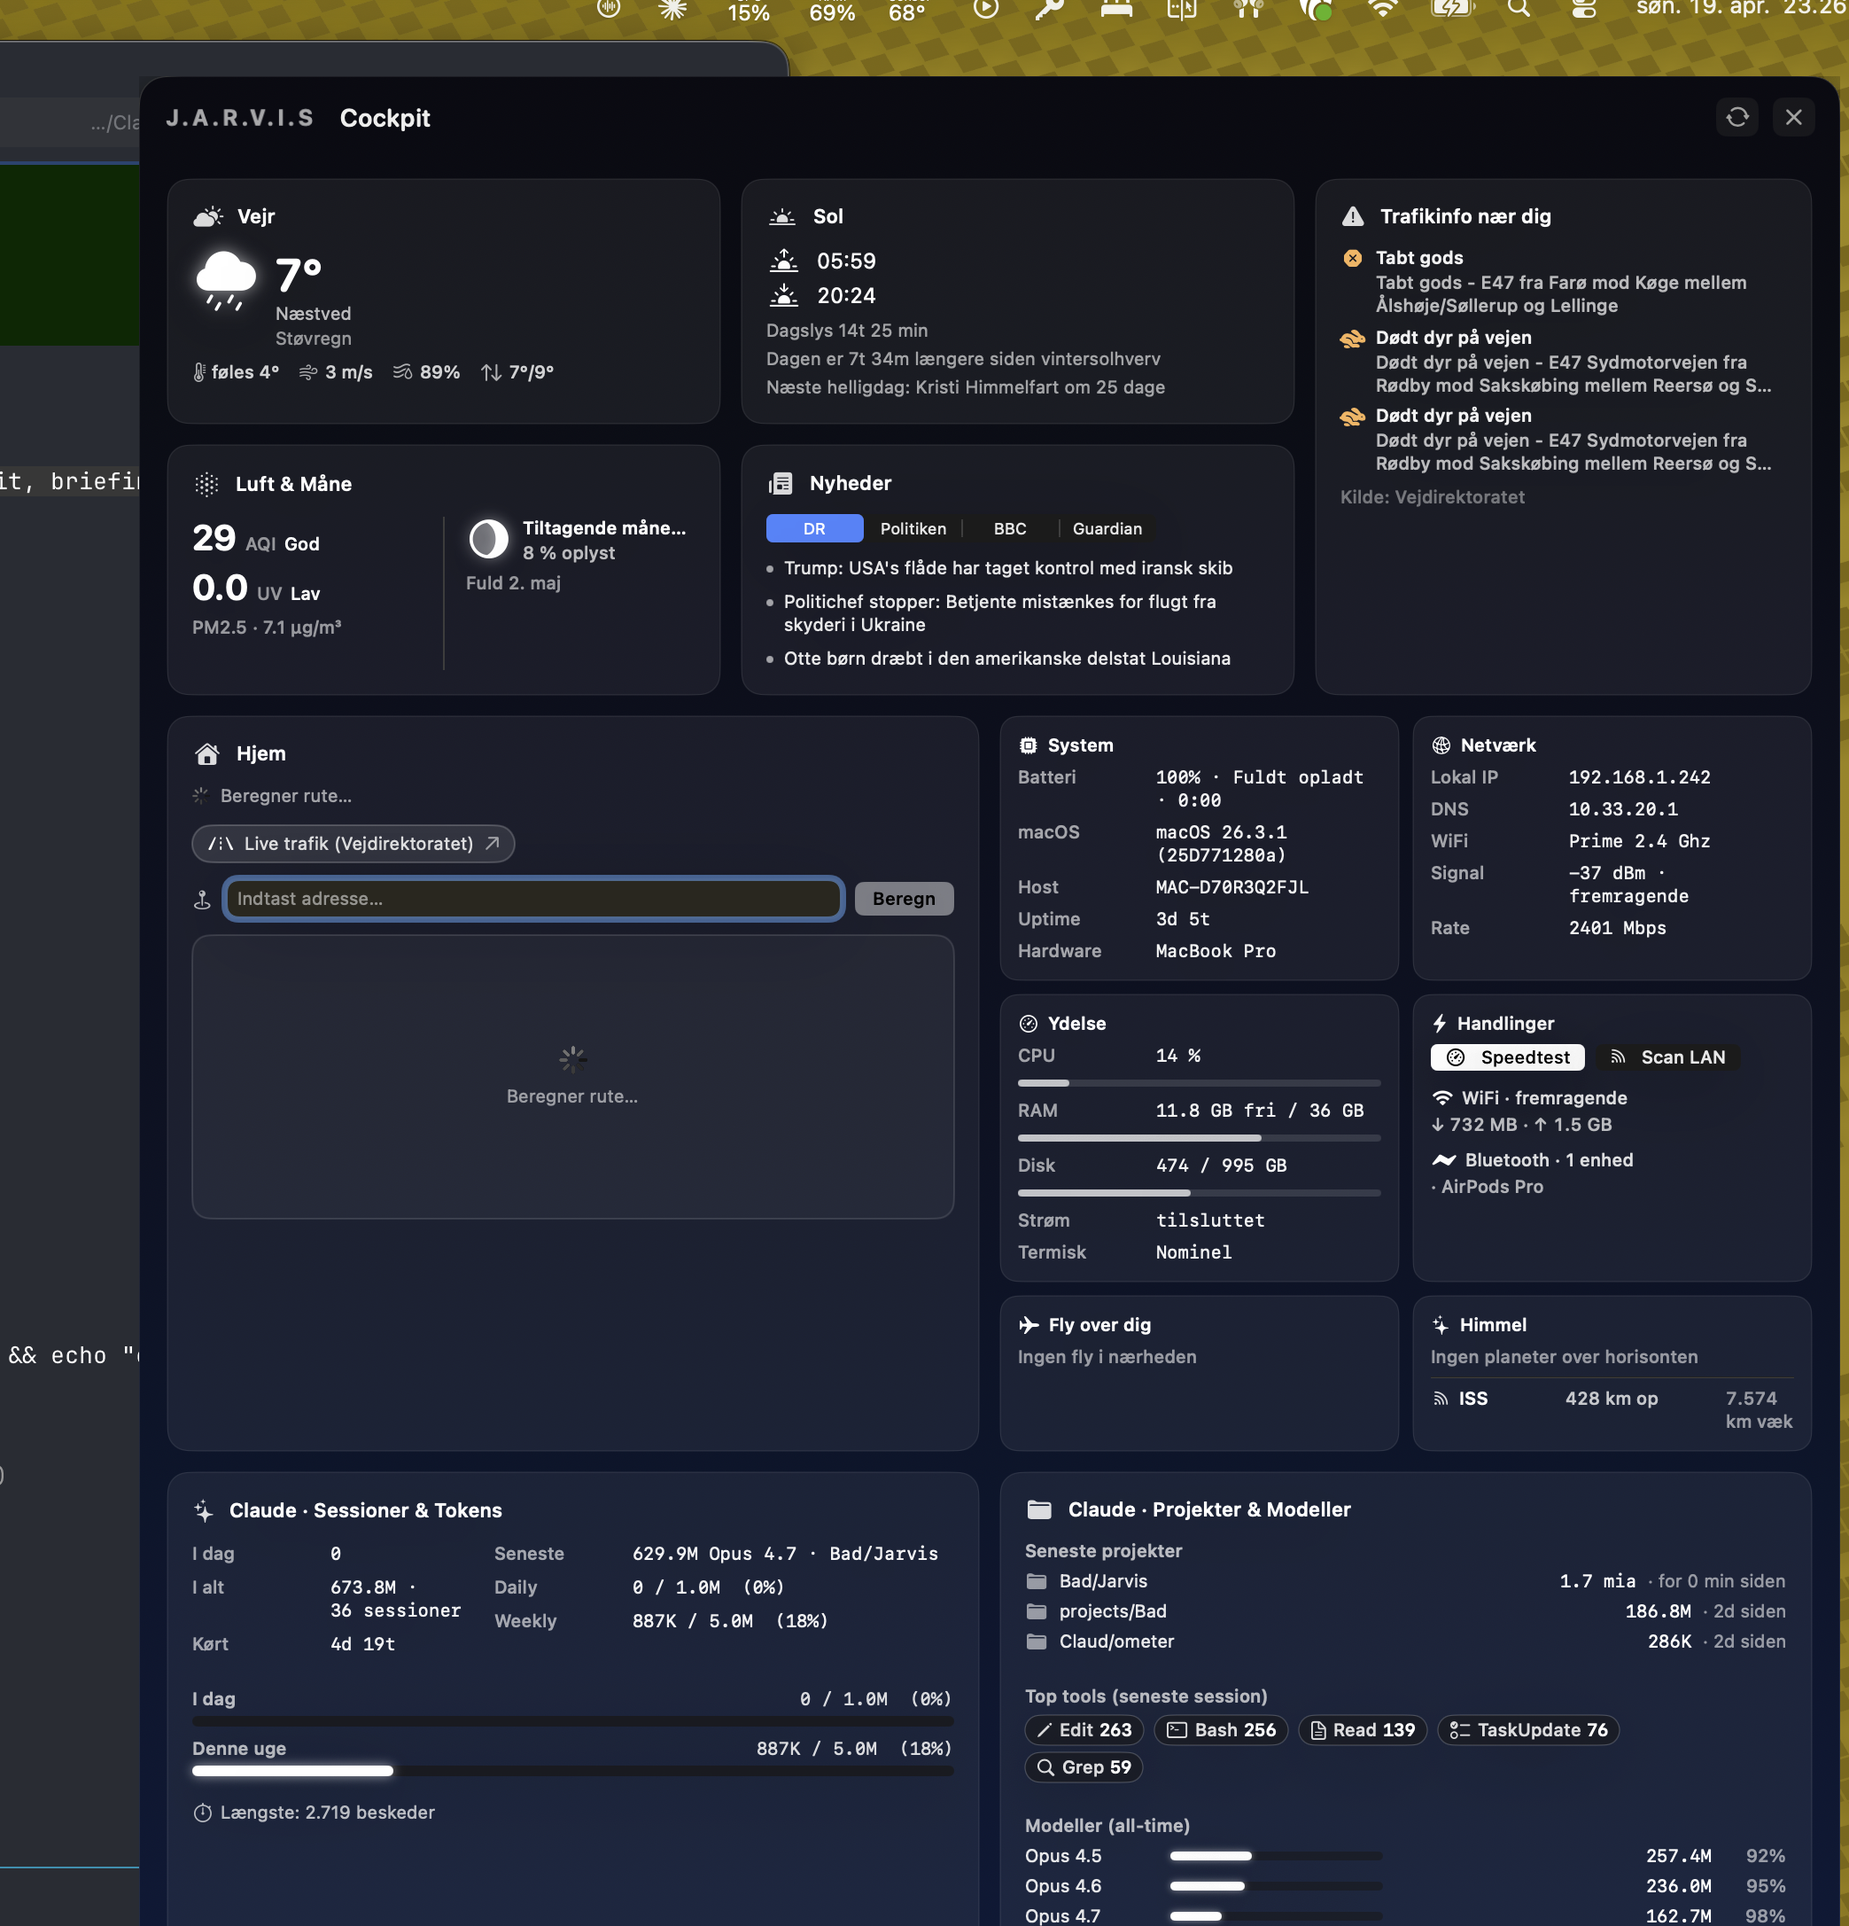
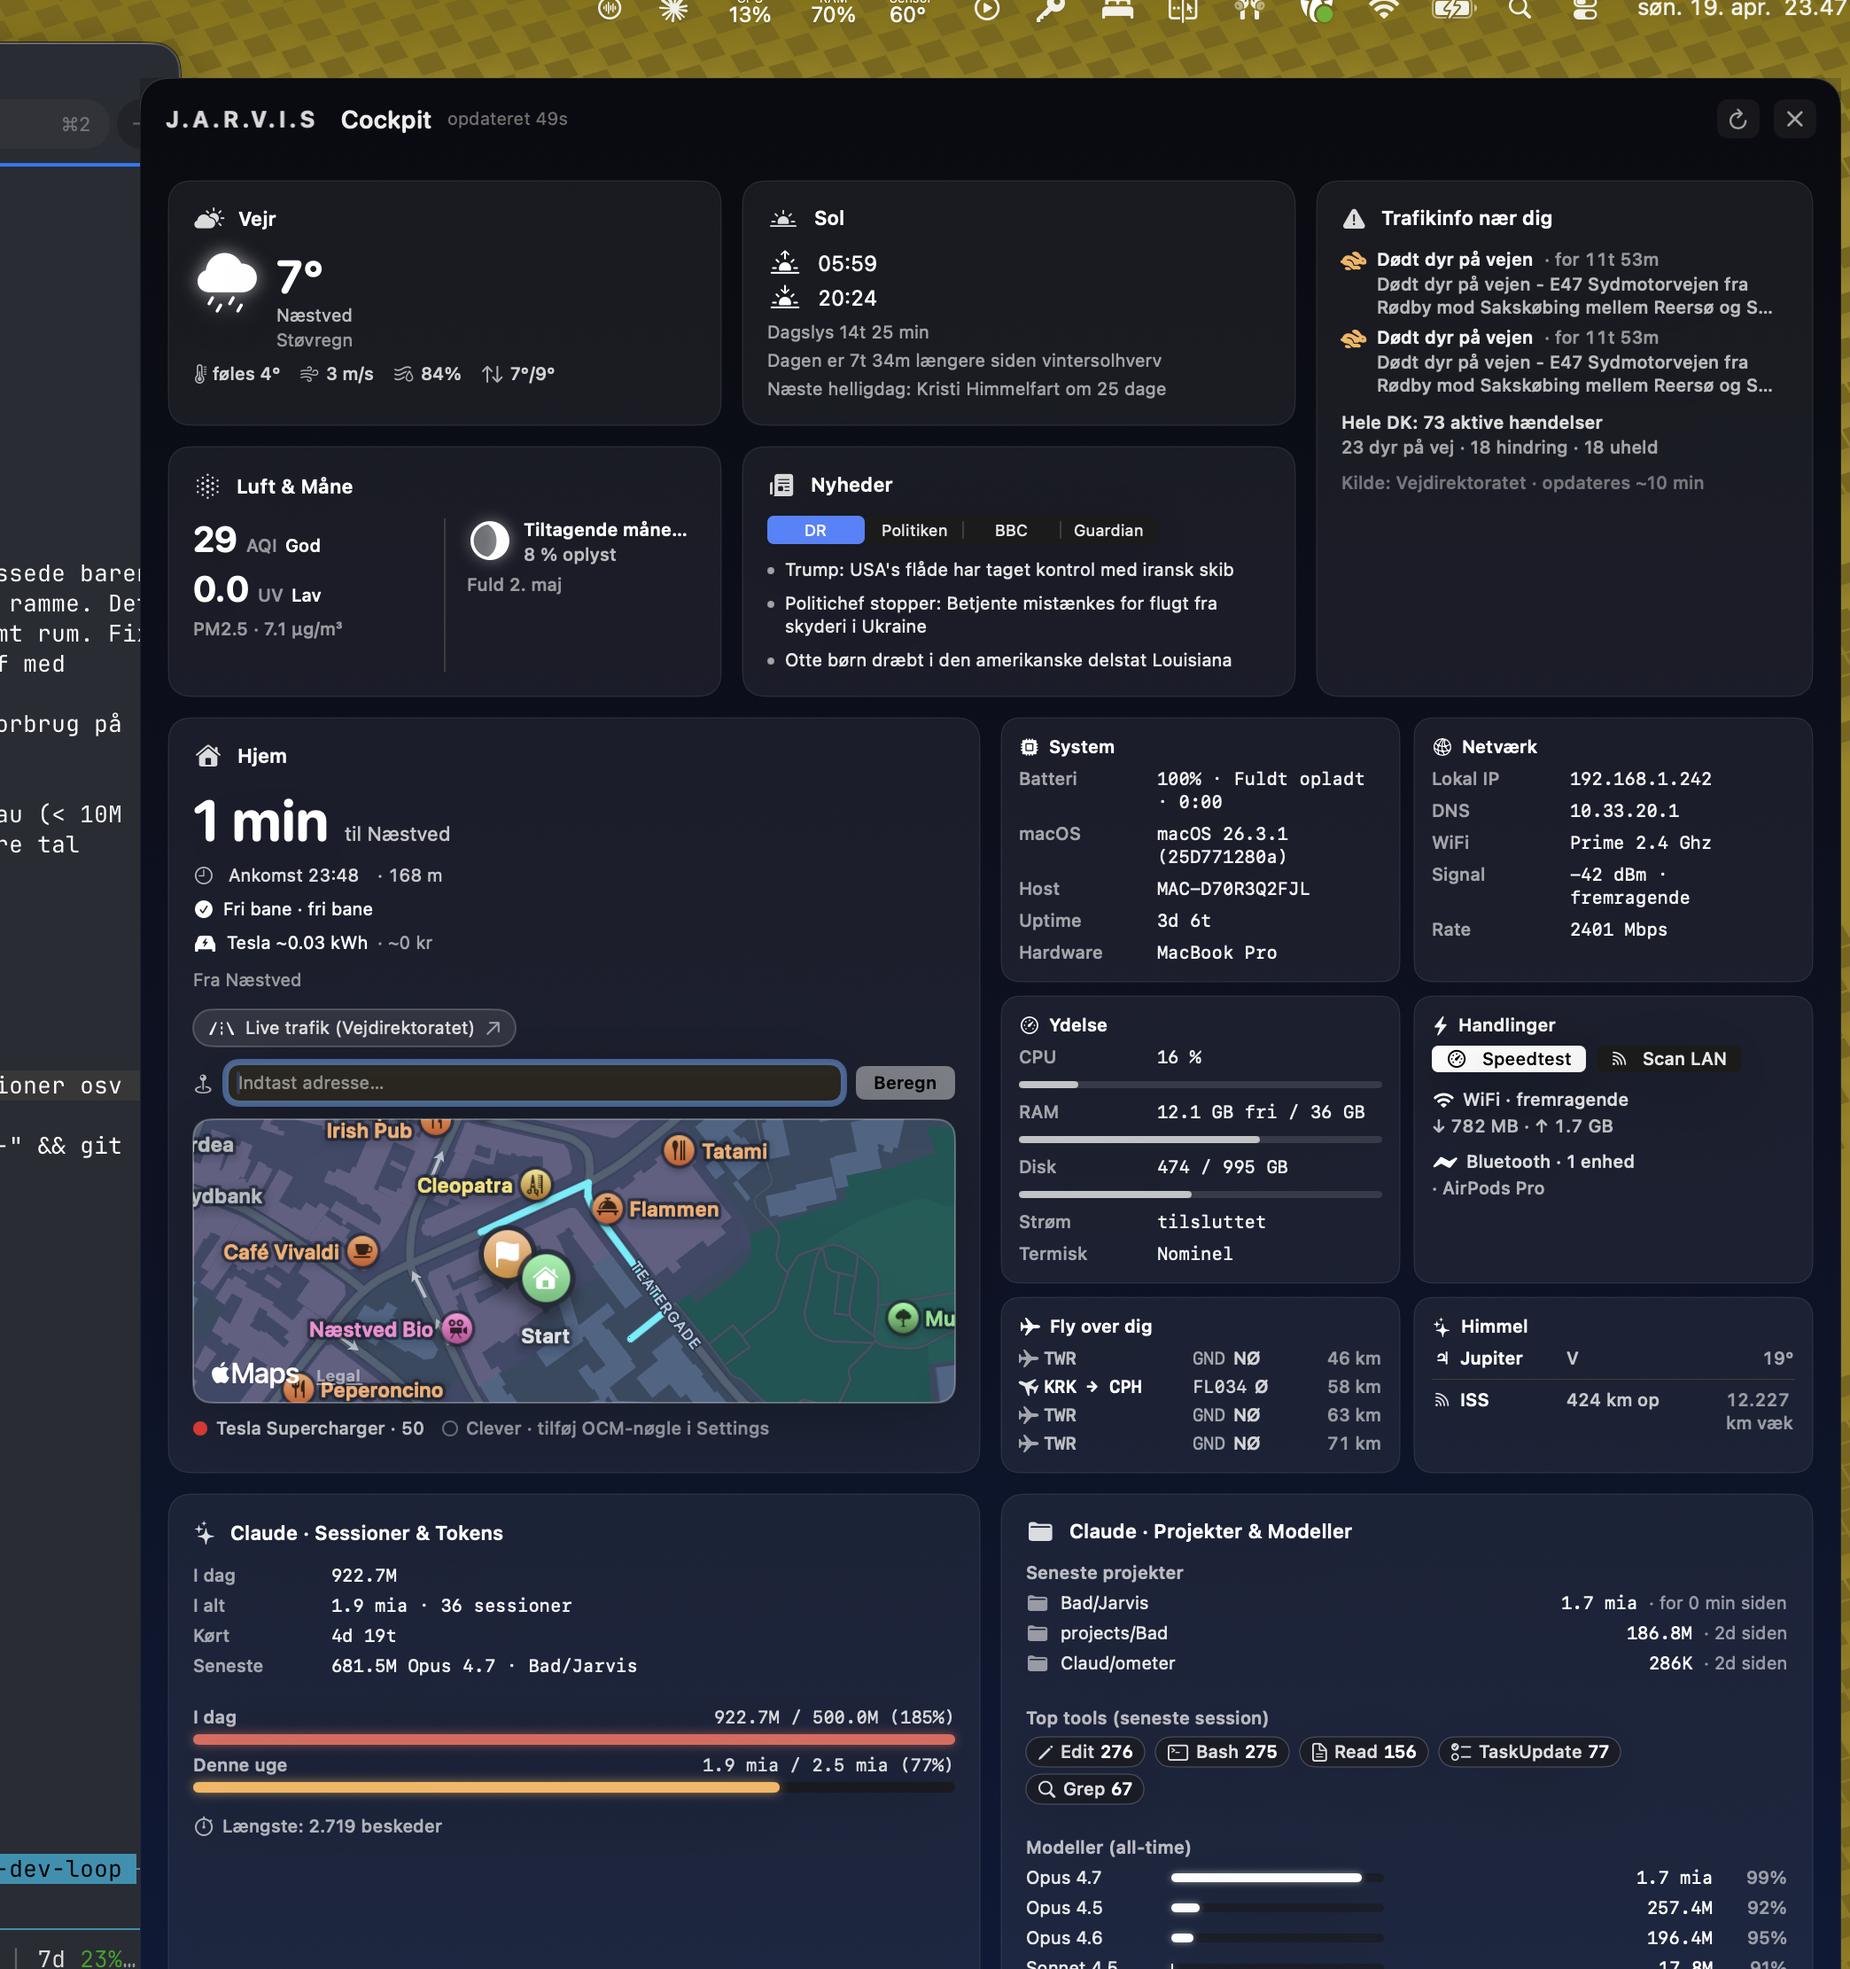
docs: refresh Cockpit screenshot + Trafikinfo/Claude tile descriptions
- docs/screenshots/cockpit.png replaced with current build (Claude
  tiles now equal-width, budget bars contained, Jupiter visible in
  Himmel, Fly showing live route pairs)
- README row for Trafikinfo notes the new per-row time-ago chip,
  municipal reporter badges, and national-scope aggregate
- README row for Claude tiles clarifies that totals come from a live
  sweep of ~/.claude/projects/*.jsonl — stats-cache.json is a day-old
  snapshot and is only used for the frozen fields

diff --git a/README.md b/README.md
@@ -35,7 +35,7 @@ A dense, glanceable dashboard laid out in a navy-glass grid (`.regularMaterial` 
 | **Sol** | Sunrise, sunset, daylight length, solstice delta, next Danish holiday (Easter computed, rest fixed) | Pure Swift (`SolarDateMath`, `DanishHolidays`) |
 | **Luft & Måne** | AQI + UV bands · moon phase + illumination + next full moon | Open-Meteo + pure-Swift moon phase |
 | **Nyheder** | DR / Politiken / BBC / Guardian headlines | RSS feeds |
-| **Trafikinfo nær dig** | Live Vejdirektoratet events (accidents, animals, obstructions, weather, public events) within 50 km, classified by DATEX II type | Vejdirektoratet big-screen-events feed |
+| **Trafikinfo nær dig** | Live Vejdirektoratet events within 50 km, classified by DATEX II type, with per-row "for 2t 4m" chips + municipal reporter badges + a national-scope "Hele DK: 73 aktive · 23 dyr · 18 uheld · 18 hindringer" aggregate | Vejdirektoratet big-screen-events feed |
 | **Hjem / Rute** | Travel time, ETA, traffic delay, Tesla kWh + kr estimate, live-traffic link, destination weather, full-width zoomable map with charger overlays, motorvejsulykker on route | Apple Maps + Open-Meteo + adsb.lol + supercharge.info + OCM |
 | **System** | Battery, macOS version, hostname, uptime, chip | pmset, sw_vers, sysctl, ProcessInfo |
 | **Netværk** | Local IP, DNS, WiFi SSID, signal (dBm + quality), link rate | getifaddrs, scutil, WiFi framework |
@@ -43,8 +43,8 @@ A dense, glanceable dashboard laid out in a navy-glass grid (`.regularMaterial` 
 | **Handlinger** | Speedtest, LAN scan, WiFi quality + cumulative RX/TX bytes, Bluetooth status + connected devices | `networkQuality`, `arp`, `getifaddrs`, IOBluetooth |
 | **Fly over dig** | 3-4 nearest aircraft — origin → destination IATA pair, flight level, compass bearing from you, km distance | adsb.lol + adsbdb.com |
 | **Himmel** | Visible planets (Merkur/Venus/Mars/Jupiter/Saturn) with altitude/compass + ISS current subpoint with distance | Pure-Swift ephemeris + wheretheiss.at |
-| **Claude · Sessioner & Tokens** | I dag / I alt / Kørt / Siden + daily/weekly budgets with bars, længste session | `~/.claude/stats-cache.json` |
-| **Claude · Projekter & Modeller** | Seneste 3 projekter, top tools (latest session), per-model breakdown with cache-hit ratio | `~/.claude/projects/*/` JSONL |
+| **Claude · Sessioner & Tokens** | I dag / I alt / Kørt / Seneste / Siden + Daily + Weekly bars (capped at >999% when over), længste session | Live sweep of `~/.claude/projects/*/*.jsonl` (all 4 token types summed per day + per model; stats-cache.json used only for session counts + firstSessionDate because it lags a day) |
+| **Claude · Projekter & Modeller** | Seneste 3 projekter, top tools (wrapped in rows of 4), per-model breakdown with cache-hit ratio | Same live JSONL sweep |
 
 EV charger overlays on the commute map: Tesla Superchargers (via supercharge.info, no auth) + Clever (via Open Charge Map, optional API key in Settings).
 
